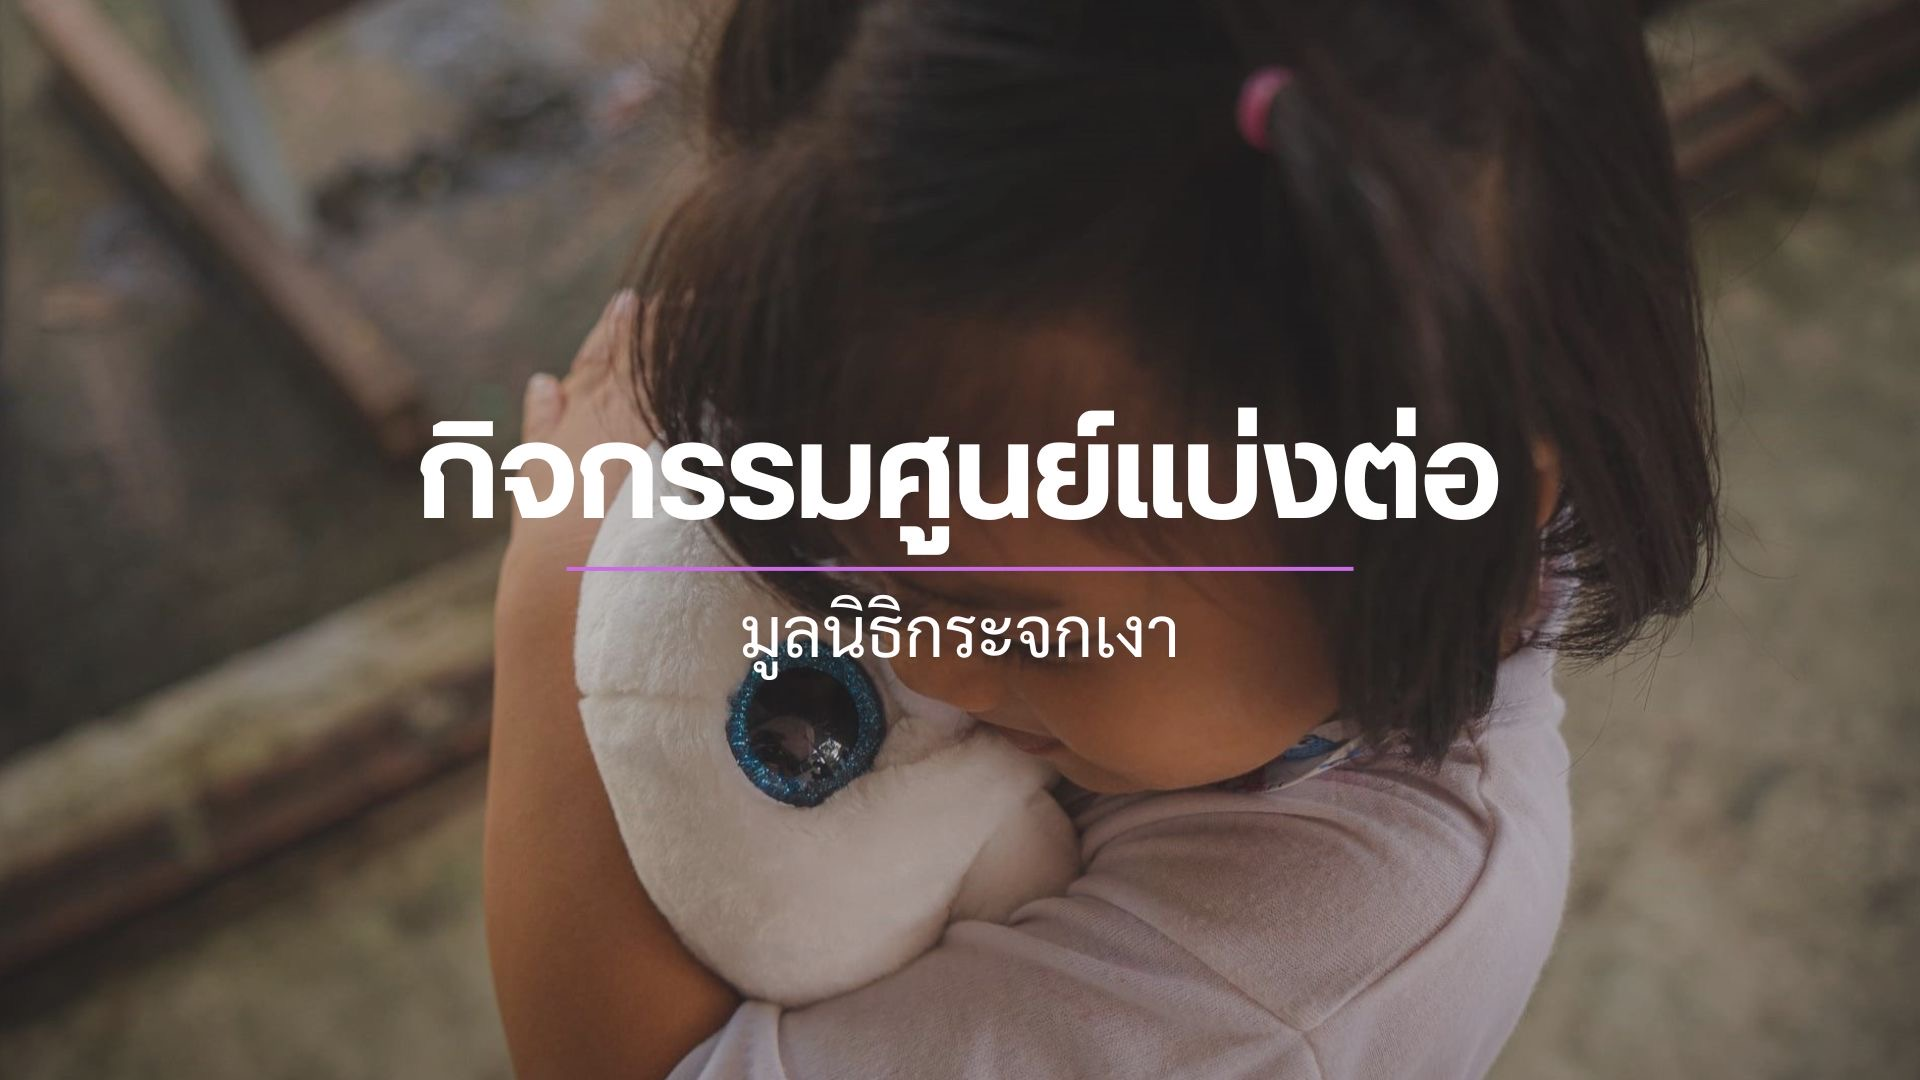
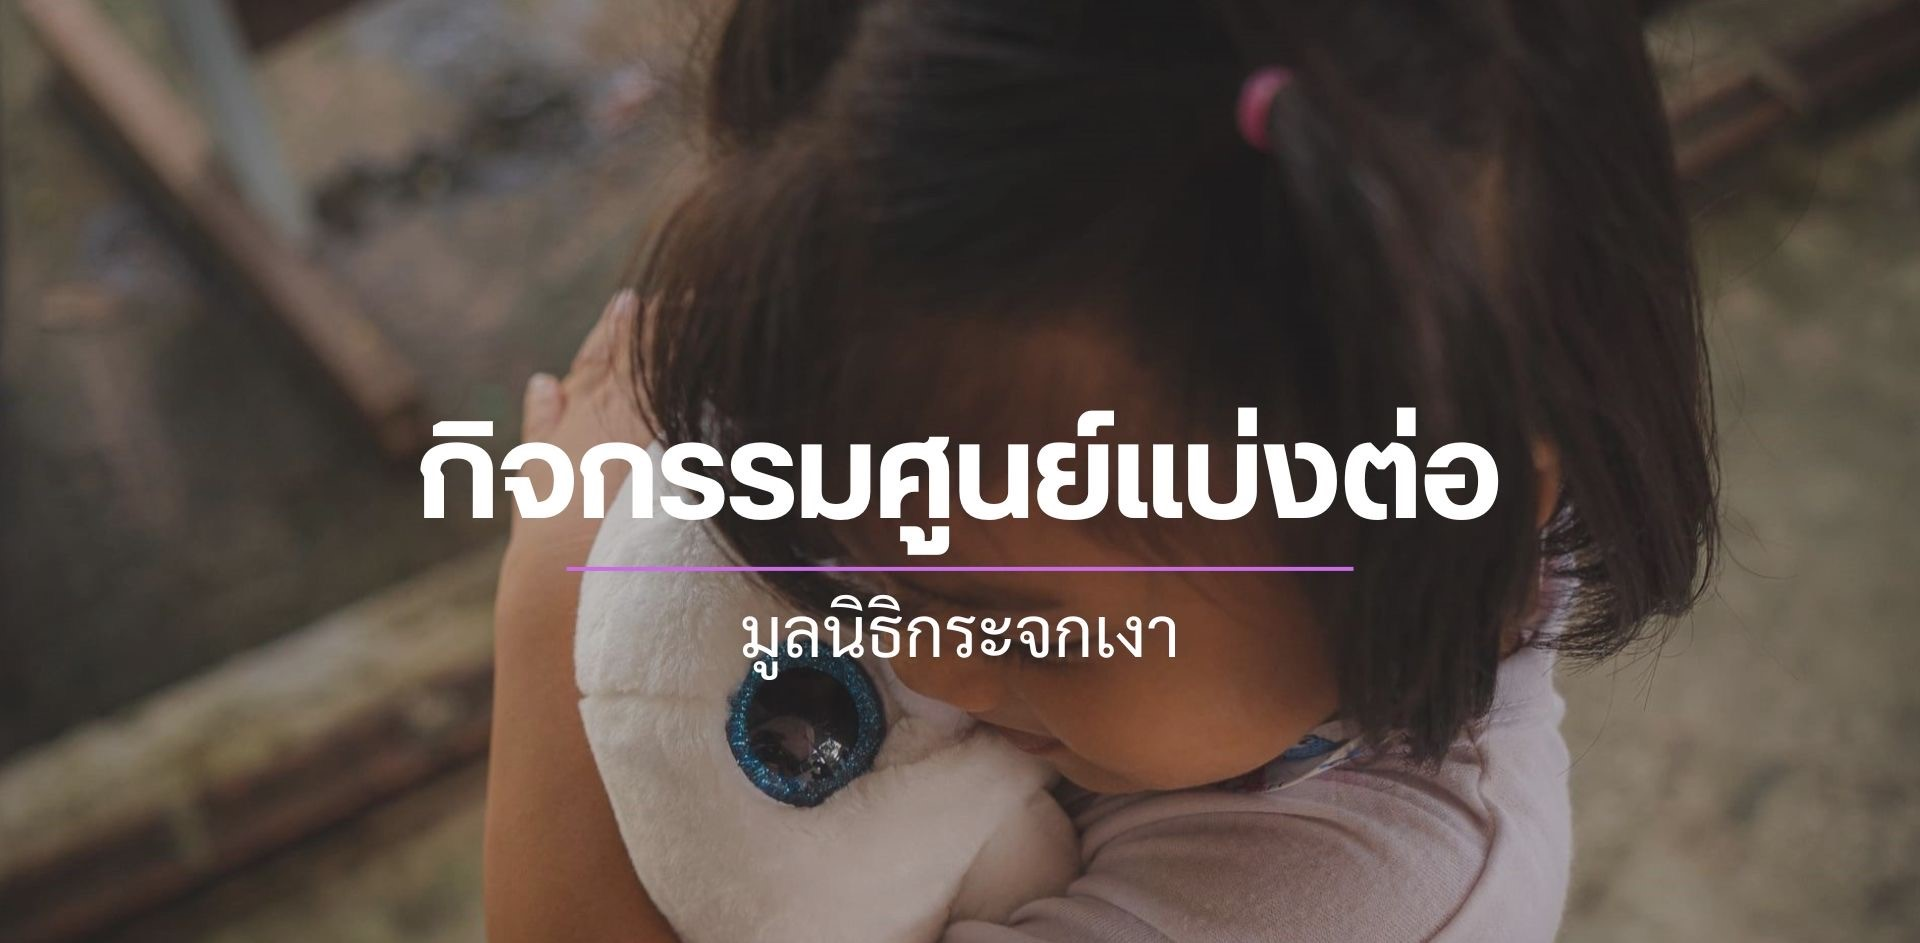
pp

diff --git a/src/pages/ActivityMap.js b/src/pages/ActivityMap.js
@@ -33,9 +33,10 @@ function ActivityMap() {
     const fetchActivities = async () => {
       const querySnapshot = await getDocs(collection(db, "activities"));
       const activitiesData = querySnapshot.docs.map((doc) => doc.data());
+      console.log(activitiesData); // ตรวจสอบข้อมูลที่ดึงมา
       setActivities(activitiesData);
     };
-
+  
     fetchActivities();
   }, []);
 
@@ -48,42 +49,43 @@ function ActivityMap() {
   };
 
   const customIcon = new L.Icon({
-    iconUrl: markerIcon, // ใช้ path ที่ถูกต้องสำหรับรูปไอคอน
-    iconSize: [15, 20], // ขนาดของไอคอน
-    iconAnchor: [16, 32], // จุดที่ไอคอนจะแสดง
-    popupAnchor: [0, -32] // จุดที่ Popup จะแสดงเมื่อคลิก
+    iconUrl: markerIcon, 
+    iconSize: [15, 20],
+    iconAnchor: [16, 32], 
+    popupAnchor: [0, -32] 
   });
 
 
-  return ( 
-    <div className="text-center" style={{width:"100vw", padding: 0, margin: 0}}>
+return ( 
+  <div className="text-center" style={{width:"100vw", padding: 0, margin: 0}}>
     <div className="justify-content-center">
       <motion.img 
         src={background} 
         alt="background" 
-        class="full-screen-image"
-        style={{ width: "100%", height: "100%", objectFit: "cover" }}
+        className="full-screen-image"
+        style={{ width: "100%", height: "100%", objectFit: "cover", marginTop: "-100px" }}
         initial={{ opacity: 0, scale: 1.1 }} 
         animate={{ opacity: 1, scale: 1 }} 
         transition={{ duration: 1.5, ease: "easeOut" }} 
       />
-      </div>
+    </div>
 
-      <h1 className="text-center my-5">กิจกรรมทั้งหมดบนแผนที่</h1>
-      <div className="d-flex justify-content-center my-5"></div>
-      
-      <MapContainer center={defaultCenter} zoom={6} style={{ width: "100%", height: "500px" }}>
+    <h1 className="text-center my-5">กิจกรรมทั้งหมดบนแผนที่</h1>
+    <div className="d-flex justify-content-center my-5">
+      <MapContainer center={defaultCenter} zoom={10} style={{ width: "60%", height: "800px" }}>
         <TileLayer
           url="https://{s}.tile.openstreetmap.org/{z}/{x}/{y}.png"
         />
         {activities.map((act, index) => {
           const latitude = parseFloat(act.latitude);
           const longitude = parseFloat(act.longtitude);
+          
+          console.log('Latitude:', latitude, 'Longitude:', longitude); // ตรวจสอบค่าพิกัด
 
           // ตรวจสอบค่าของ latitude และ longitude
           if (isNaN(latitude) || isNaN(longitude)) {
             console.warn(`พิกัดไม่ถูกต้องสำหรับกิจกรรม: ${act.name}`, act.latitude, act.longtitude);
-            return null; // ข้ามการแสดง marker นี้ไปถ้าพิกัดไม่ถูกต้อง
+            return null;
           }
 
           return (
@@ -93,51 +95,50 @@ function ActivityMap() {
               animate={{ opacity: 1 }}
               transition={{ delay: index * 0.1, duration: 1 }}
             >
-              <Marker
-  position={{ lat: latitude, lng: longitude }}
-  icon={customIcon} // เพิ่มไอคอนที่กำหนดไว้
-  eventHandlers={{
-    click: () => setSelectedActivity(act),
-  }}
->
-  {selectedActivity && selectedActivity.name === act.name && (
-    <Popup>
-      <div>
-        <h3>{act.name}</h3>
-        <p>{act.description}</p>
-        <p>
-          <strong>วันที่:</strong> {parseDate(act.date)}
-        </p>
-        <p>
-          <strong>ที่อยู่:</strong> {act.location}
-        </p>
+            <Marker
+              position={{ lat: latitude, lng: longitude }}
+              icon={customIcon} // เพิ่มไอคอนที่กำหนดไว้
+              eventHandlers={{
+                click: () => setSelectedActivity(act),
+              }}
+            >
+            {selectedActivity && selectedActivity.name === act.name && (
+              <Popup>
+                <div>
+                  <h3>{act.name}</h3>
+                  <p>{act.description}</p>
+                  <p>
+                    <strong>วันที่:</strong> {parseDate(act.date)}
+                  </p>
+                  <p>
+                    <strong>ที่อยู่:</strong> {act.location}
+                  </p>
 
-        {act.imgURL && (
-          <img
-            src={act.imgURL}
-            alt={act.name}
-            style={{
-              width: "150px",
-              height: "100px",
-              objectFit: "cover",
-              borderRadius: "8px",
-            }}
-          />
-        )}
-      </div>
-    </Popup>
-  )}
-</Marker>
-
+                  {act.imgURL && (
+                    <img
+                      src={act.imgURL}
+                      alt={act.name}
+                      style={{
+                        width: "150px",
+                        height: "100px",
+                        objectFit: "cover",
+                        borderRadius: "8px",
+                      }}
+                    />
+                  )}
+                </div>
+              </Popup>
+            )}
+            </Marker>
             </motion.div>
           );
         })}
       </MapContainer>
-        <div className="container mt-4">
-    
-          {/* Grid Layout: แสดงรูปภาพแบบตาราง */}
-    
-          <h3 className="text-center mb-6" style={{ margin: "5%"}}>กิจกรรมของศูนย์แบ่งต่อ</h3>
+      </div>
+      
+      
+      <div className="container mt-4">  
+        <h3 className="text-center mb-6" style={{ margin: "5%"}}>กิจกรรมของศูนย์แบ่งต่อ</h3>
           <Row>
             <Col md={4} className="mb-4 ">
               <motion.div 
@@ -380,10 +381,9 @@ function ActivityMap() {
             animate={{ opacity: 1 }} 
             transition={{ duration: 1 }}
           >
-
           </motion.div>
-        </div>
-        </div>
+      </div>
+    </div>
         
   );
 }

diff --git a/src/App.js b/src/App.js
@@ -2,7 +2,7 @@ import React from "react";
 import { Route, Routes, Link, NavLink } from "react-router-dom";
 import { Navbar, Nav,  } from "react-bootstrap";
 import 'bootstrap/dist/css/bootstrap.min.css';
-import logo from './pics/logo.jpg';
+import logo from './pics/logo.png';
 import Contact from './pages/Contact.js';
 import AddActivity from "./pages/AddActivity.js";
 import ActivityMap from "./pages/ActivityMap.js";
@@ -15,7 +15,7 @@ import './app2.css'
 function App() {
   return (
     <div>
-      <Navbar bg="dark" variant="dark" className="py-3" style={{ fontSize: '1.2rem' }} fixed="top">
+      <Navbar variant="dark" className="py-3" style={{ backgroundColor: 'rgba(0, 0, 0, 0.7)', fontSize: '1.2rem' }} fixed="top">
         <div className="w-100 d-flex align-items-center justify-content-between px-4">
           <Navbar.Brand as={Link} to="/activity-map">
             <img src={logo} alt="Logo" style={{ height: '60px', marginLeft: '50px',  }} />

diff --git a/src/pages/AddActivity.js b/src/pages/AddActivity.js
@@ -125,7 +125,7 @@ function AddActivity() {
               </Form.Group>
               <Form.Group>
                 <Form.Label>ลองจิจูด (Longitude)</Form.Label>
-                <Form.Control type="text" name="longitude" value={activity.longitude} onChange={handleChange} required />
+                <Form.Control type="text" name="longitude" value={activity.longtitude} onChange={handleChange} required />
               </Form.Group>
               <Form.Group>
                 <Form.Label>ลิงก์รูปภาพ</Form.Label>

diff --git a/src/pages/Contact.js b/src/pages/Contact.js
@@ -9,7 +9,7 @@ const mapContainerStyle = { width: "100%", height: "400px", borderRadius: "10px"
 const center = { lat: 13.868733951594397, lng: 100.57929018380483 };
 
 function Contact() {
-  const [hover, setHover] = useState(false);
+  const [setHover] = useState(false);
 
   useEffect(() => {
     document.body.style.backgroundColor = "#fff9db"; // ตั้งค่าพื้นหลังสีเหลือง
